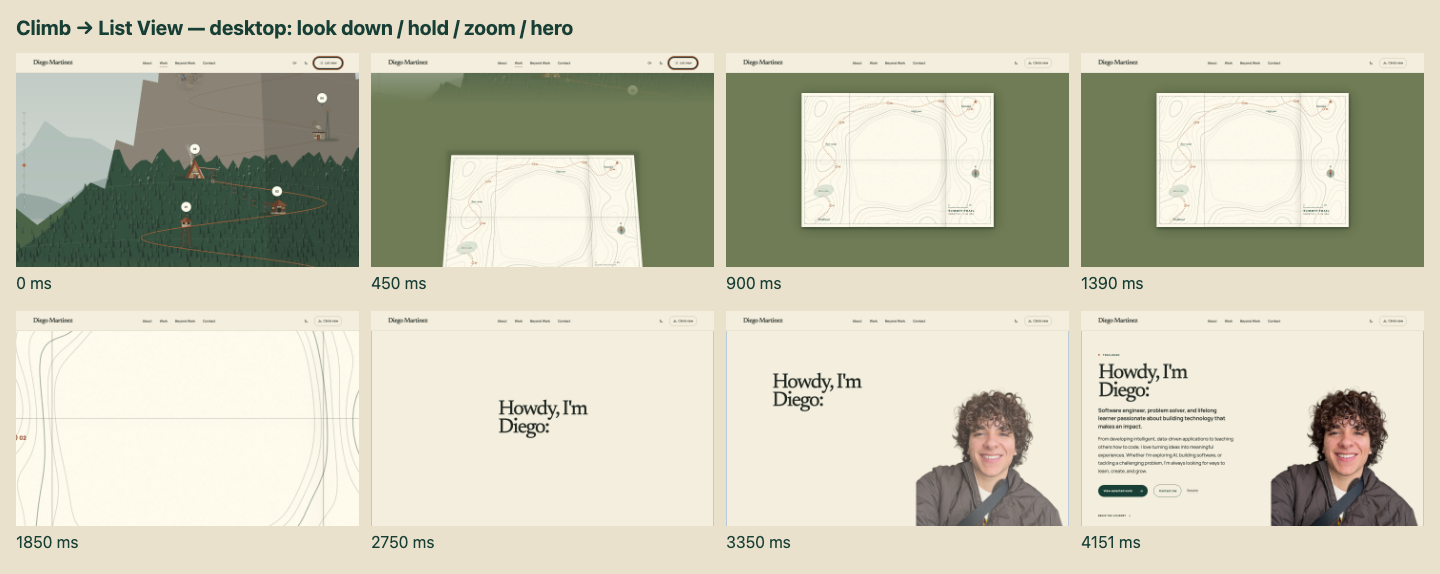
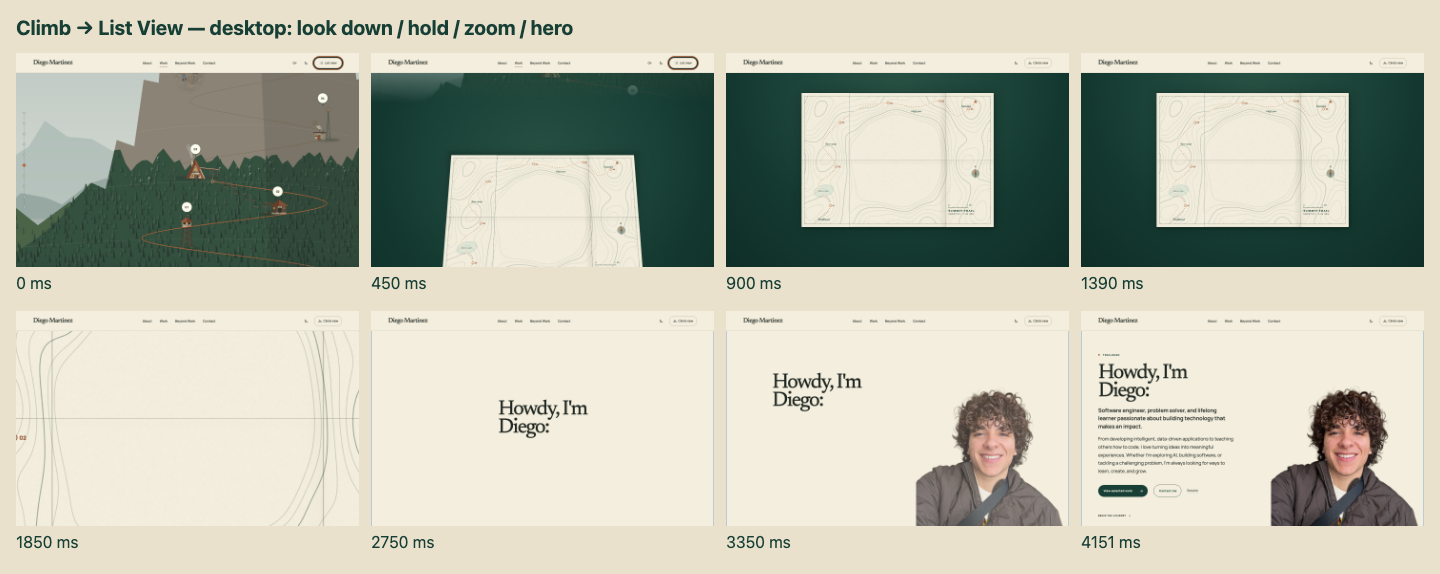
Match map paper to light navigation and restore the original backdrop

Changed region(s): [[0.25, 0.1185, 1.0, 0.4739], [0.125, 0.2666, 0.1562, 0.2962]]

diff --git a/components/splash/splash.css b/components/splash/splash.css
@@ -2,7 +2,7 @@
    the controller share timing.json, including the continuous page handoff. */
 
 html[data-splash="active"] .splash { display: block; }
-html[data-theme="light"] .splash { --splash-page-bg: #f3eedd; --splash-ground: #6f7c55; }
+html[data-theme="light"] .splash { --splash-page-bg: #f3eedd; }
 
 .splash {
   --w: min(28vw, 47vh);
@@ -10,11 +10,10 @@ html[data-theme="light"] .splash { --splash-page-bg: #f3eedd; --splash-ground: #
   --entry-y: calc(-50vh - var(--ph) * 0.65 - 24px);
   --rig-top: 46%;
   --zoom-fallback: 5.4;
-  --paper: #fffbed;
-  --paper-back: #f6efda;
+  /* Same cream as the Light-mode navigation background. */
+  --paper: #f3eedd;
+  --paper-back: #f3eedd;
   --splash-page-bg: #1a211d;
-  /* Climb meadow (#6f7c55) under its 60% #0c1526 moonlight veil. */
-  --splash-ground: #343e39;
 
   --print: var(--print-wide);
   animation: splash-exit var(--splash-duration) linear both;
@@ -49,12 +48,14 @@ html[data-splash-art="loading"] .splash:not(.splash--climb):not(.splash--list) *
 /* ---------- World: table, camera, rig ---------- */
 .splash-world { animation: splash-world-off var(--splash-duration) linear both; inset: 0; position: absolute; }
 .splash-table {
-  /* Match the Climb's flat meadow paint beneath the camera. */
-  background: var(--splash-ground);
+  background:
+    radial-gradient(ellipse 70% 60% at 50% 44%, rgba(255, 251, 237, 0.06), transparent 70%),
+    radial-gradient(ellipse at 50% 40%, #1b4639 0%, #173f35 48%, #0f2e27 100%);
   inset: -45vh 0 0; position: absolute;
   /* The top 35vh sit above the screen at rest; they feather the edge when the view tilts up to the mountain. */
   -webkit-mask-image: linear-gradient(to bottom, transparent, #000 35vh); mask-image: linear-gradient(to bottom, transparent, #000 35vh);
 }
+.splash-table::after { background: var(--grain); background-size: 192px; content: ""; inset: 0; opacity: 0.55; position: absolute; }
 .splash-camera {
   animation: splash-zoom-fallback var(--splash-duration) linear both;
   inset: 0; position: absolute; transform-origin: 50% var(--rig-top);

diff --git a/docs/handoff/map-opening-v2/validation.md b/docs/handoff/map-opening-v2/validation.md
@@ -372,17 +372,20 @@ time budget passed all 14 selected checks, covering all eight prior failures.
 Production static-export builds, typecheck, lint and diff checks pass.
 
 
-## Meadow ground for map transitions
+## Map paper and surrounding background
 
-The map's ground uses the Climb meadow color from `mountain/scenery.ts`:
-`#6f7c55` in Light mode. Dark mode uses `#343e39`, the same meadow under the
-bottom of `night.ts`'s 60% `#0c1526` moonlight veil. The fixed pine-green
-vignette and floor grain are removed so the ground matches the scenery's flat
-paint. This shared splash surface covers the opening and both view transitions;
-the paper artwork, creases, shadows, timing and hero reveal are unchanged.
+The map paper uses `#f3eedd`, the Light-mode navbar background color. Both front
+and reverse paper surfaces share this base, and the cover's printed header band
+uses the same cream. Only the two cover sprites are regenerated; the other ten
+print sprites, lettering, contours, route, symbols and fold geometry are unchanged.
+Fold lighting and paper grain remain on top of the base color.
 
-Validation: all 18 selected Chromium/WebKit checks pass for both directions at
-390 px and 1440 px in Light/Dark, plus reduced-motion returns. Production
-static-export builds, typecheck, lint and diff checks pass. Updated opening,
-look-up and look-down contact sheets show the meadow ground; `return-dark.png`
-records the moonlit match. No new animation or rendering dependency is added.
+The surrounding ground retains the original dark pine radial vignette and fine
+grain in both themes. The meadow-color background has been reverted. The same
+paper and ground appear in the initial opening and both view transitions.
+
+Paper/background validation: 30 selected Chromium/WebKit opening and two-way
+transition checks pass; two known WebKit 3D face-paint captures are skipped.
+The browser reports `rgb(243, 238, 221)` for the Light navbar and both paper
+faces. The original two radial gradients and floor-grain overlay are restored.
+Production builds, typecheck, lint and diff checks pass.
